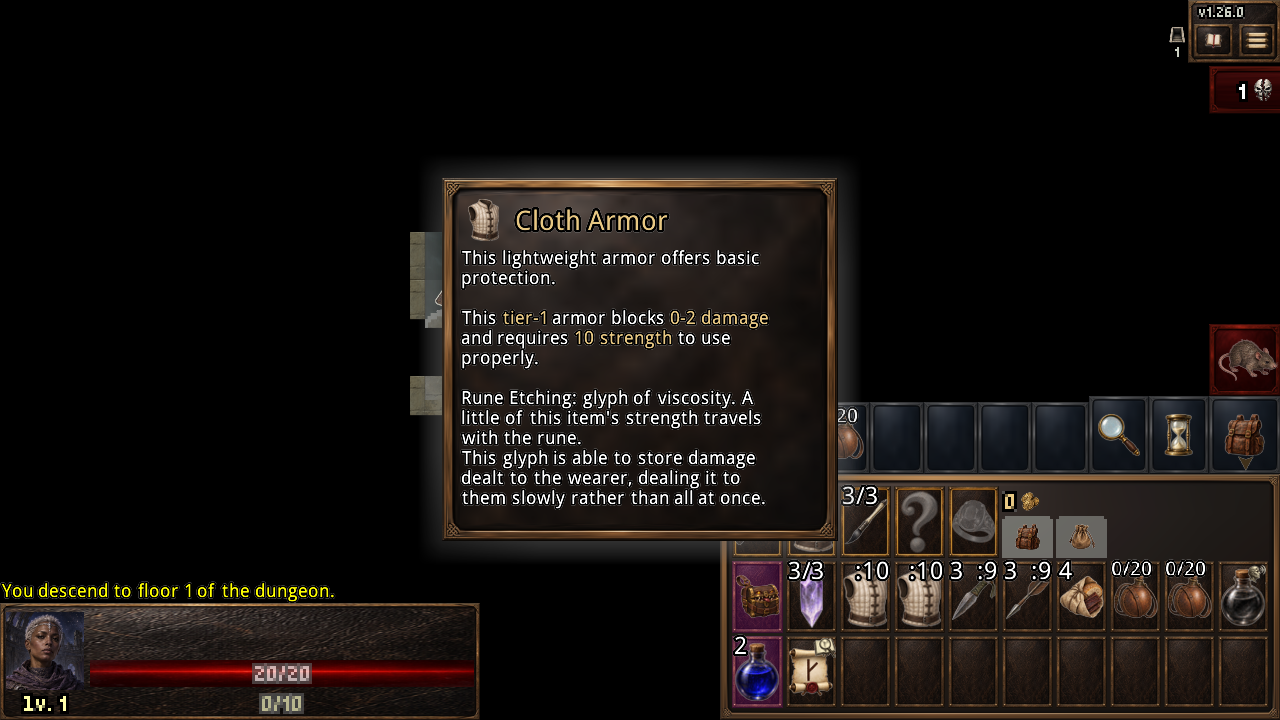
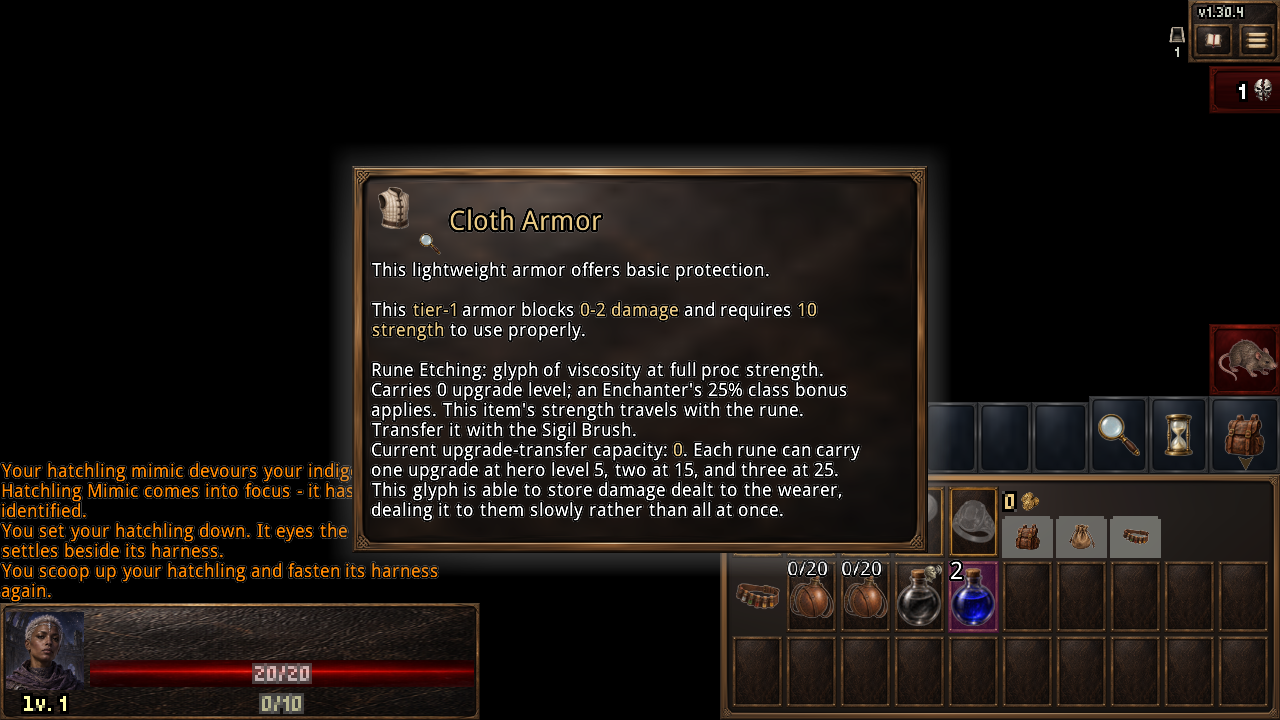
Scale Enchanter rune upgrade transfers at hero levels 5, 15 and 25

Changed region(s): [[0.0, 0.2139, 1.0, 1.0]]

diff --git a/core/src/test/java/com/shatteredpixel/shatteredpixeldungeon/acceptance/SmokeRun.java b/core/src/test/java/com/shatteredpixel/shatteredpixeldungeon/acceptance/SmokeRun.java
@@ -109,10 +109,75 @@ public class SmokeRun {
                 String info=carrier.info();
                 check(info.contains("Rune Etching: "+name)
                         && info.contains("strength travels with the rune")
+                        && info.contains("Current upgrade-transfer capacity: _"+RuneEtching.upgradeCapacity(Dungeon.hero)+"_")
                         && info.contains("25% class bonus") && !info.contains("%1$s") && !info.contains("%2$d")
                         && !info.contains("25%%"),"37: Rune Etching description resolves its live effect, upgrade and class bonus");
             }
         } finally {rune.floorEnchant=previous;rune.floorGlyph=previousGlyph;}
+    }
+
+    private static void etchingProgressionScenario(){
+        Hero originalHero=Dungeon.hero;
+        try {
+            int[] levels={1,4,5,7,14,15,16,24,25,30},capacities={0,0,1,1,1,2,2,2,3,3};
+            check(RuneEtching.upgradeCapacity(null)==0,"37: no owner cannot bank upgrades");
+            for(boolean armor:new boolean[]{false,true})for(int i=0;i<levels.length;i++){
+                Hero hero=new Hero();hero.heroClass=HeroClass.ENCHANTER;hero.lvl=levels[i];Dungeon.hero=hero;
+                Talent.initClassTalents(hero);
+                Item source=armor?new ClothArmor():new com.shatteredpixel.shatteredpixeldungeon.items.weapon.melee.Dagger();
+                Item next=armor?new ClothArmor():new com.shatteredpixel.shatteredpixeldungeon.items.weapon.melee.Dagger();
+                source.level(2);next.level(3);source.identify();next.identify();
+                RuneEtching rune=new RuneEtching(armor);
+                if(armor){((Armor)source).runeEtching=rune;hero.belongings.armor=(Armor)source;}
+                else{((Weapon)source).runeEtching=rune;hero.belongings.weapon=(Weapon)source;}
+                check(rune.level()==0&&RuneEtching.upgradeCapacity(hero)==capacities[i],"37: exact level threshold "+levels[i]);
+                for(int paid=0;paid<4;paid++)source.upgrade();
+                int cap=capacities[i];
+                check(rune.level()==cap&&source.trueLevel()==6,"37: bank only new paid upgrades up to capacity "+levels[i]);
+                checkRuneDescription(source);
+                source.collect();next.collect();
+                for(int transfer=0;transfer<3;transfer++){
+                    if(armor)hero.belongings.armor=(Armor)next;else hero.belongings.weapon=(Weapon)next;
+                    check(RuneEtching.etch(hero,next)&&source.trueLevel()==6-cap&&next.trueLevel()==3+cap
+                            &&RuneEtching.attached(next)==rune&&RuneEtching.attached(source)==null,
+                            "37: exact transfer with excess and pre-existing upgrades retained "+levels[i]);
+                    if(armor)hero.belongings.armor=(Armor)source;else hero.belongings.weapon=(Weapon)source;
+                    check(RuneEtching.etch(hero,source)&&source.trueLevel()==6&&next.trueLevel()==3,
+                            "37: repeated transfers conserve every paid upgrade "+levels[i]);
+                }
+                Bundle saved=new Bundle();saved.put("carrier",source);
+                Item restored=(Item)saved.get("carrier");
+                check(restored.trueLevel()==6&&RuneEtching.attached(restored).level()==cap,
+                        "37: capacity and carrier upgrades survive save/load "+levels[i]);
+                if(cap>0){
+                    hero.lvl=cap==1?4:cap==2?14:24;
+                    if(armor)hero.belongings.armor=(Armor)next;else hero.belongings.weapon=(Weapon)next;
+                    check(!RuneEtching.canEtch(hero,next)&&!RuneEtching.etch(hero,next)
+                            &&RuneEtching.attached(source)==rune&&source.trueLevel()==6&&next.trueLevel()==3&&rune.level()==cap,
+                            "37: legacy/Playtest level reductions preserve paid upgrades without over-cap transfer");
+                    hero.lvl=levels[i];
+                    // Carrier loss, even with a full pack, must keep every banked level.
+                    while(hero.belongings.backpack.items.size()<hero.belongings.backpack.capacity())
+                        hero.belongings.backpack.items.add(new Food());
+                    RuneEtching.recover(source);
+                    check(source.trueLevel()==6-cap&&RuneEtching.attached(source)==null&&RuneEtching.find(hero,armor)==rune
+                            &&RuneEtching.etch(hero,next)&&next.trueLevel()==3+cap,
+                            "37: full-pack recovery preserves all banked upgrades "+levels[i]);
+                }
+            }
+            // Old saves may already have a paid level at hero level one. Keep it until transfer unlocks.
+            Hero legacyHero=new Hero();legacyHero.heroClass=HeroClass.ENCHANTER;legacyHero.lvl=1;Dungeon.hero=legacyHero;
+            Talent.initClassTalents(legacyHero);
+            Weapon old=new com.shatteredpixel.shatteredpixeldungeon.items.weapon.melee.Dagger();old.level(2);
+            old.runeEtching=new RuneEtching();old.runeEtching.level(1);old.collect();
+            Weapon next=new com.shatteredpixel.shatteredpixeldungeon.items.weapon.melee.Dagger();legacyHero.belongings.weapon=next;
+            Bundle oldSave=new Bundle();oldSave.put("carrier",old);
+            old=(Weapon)oldSave.get("carrier");legacyHero.belongings.backpack.items.clear();old.collect();
+            check(!RuneEtching.etch(legacyHero,next)&&old.trueLevel()==2&&old.runeEtching.level()==1,"37: old paid rune remains intact before new unlock");
+            legacyHero.lvl=5;
+            check(RuneEtching.etch(legacyHero,next)&&old.trueLevel()==1&&next.trueLevel()==1,"37: old paid rune transfers when its threshold is reached");
+        } finally {Dungeon.hero=originalHero;}
+        System.out.println("TEST 37 PROGRESSION PASS: weapon/armor capacities 0 before hero 5, 1 at 5, 2 at 15, 3 at 25; paid-upgrade conservation, descriptions, saves and legacy/full-pack recovery");
     }
 
     private static void armorEtchingScenario(Hero h,Weapon weapon){
@@ -1671,6 +1736,8 @@ public class SmokeRun {
         bow.detachAll(h.belongings.backpack);knives.detachAll(h.belongings.backpack);brush.gainCharge(3);
         System.out.println("TEST 33 RANGED PASS: bow, thrown stack split/recovery/expiry, tagged picker and cast exclusion, real arrow proc");
         RuneEtching rune=starter.runeEtching;
+        etchingProgressionScenario();
+        int originalEtchingLevel=h.lvl;h.lvl=5;
         checkRuneDescription(starter);starter.upgrade();checkRuneDescription(starter);
         check(starter.actions(h).contains(Item.AC_DROP)&&starter.value()>0,"37: ordinary sellable starter");
         com.shatteredpixel.shatteredpixeldungeon.items.weapon.melee.WornShortsword replacement=new com.shatteredpixel.shatteredpixeldungeon.items.weapon.melee.WornShortsword();
@@ -1684,6 +1751,7 @@ public class SmokeRun {
         starter.doEquip(h);check(RuneEtching.etch(h)&&starter.level()==1&&starter.runeEtching==rune,"37: reattach after carrier loss");
         check(!rune.actions(h).contains(Item.AC_DROP),"37: rune cannot be dropped");
         armorEtchingScenario(h,starter);
+        h.lvl=originalEtchingLevel;
         System.out.println("TEST 37 PASS: transfer, upgrade, replacement, carrier loss and reattachment");
         runecraftScenario(h,brush,starter);
         clearArena();Rat enemy=target(h.pos+1);enemy.sprite.visible=false;

diff --git a/core/src/main/java/com/shatteredpixel/shatteredpixeldungeon/items/RuneEtching.java b/core/src/main/java/com/shatteredpixel/shatteredpixeldungeon/items/RuneEtching.java
@@ -7,11 +7,12 @@ import com.shatteredpixel.shatteredpixeldungeon.items.armor.Armor;
 import com.shatteredpixel.shatteredpixeldungeon.items.weapon.Weapon;
 import com.shatteredpixel.shatteredpixeldungeon.items.weapon.melee.MeleeWeapon;
 import com.shatteredpixel.shatteredpixeldungeon.items.weapon.enchantments.*;
+import com.shatteredpixel.shatteredpixeldungeon.messages.Messages;
 import com.shatteredpixel.shatteredpixeldungeon.sprites.ItemSpriteSheet;
 import com.watabou.utils.*;
 import java.util.ArrayList;
 
-/** Independent category-bound runes, each banking at most one paid carrier upgrade. */
+/** Independent category-bound runes, banking paid upgrades up to the hero's transfer capacity. */
 public class RuneEtching extends Item {
     public static boolean equipping;
     public static final Class<?>[] FLOOR_ENCHANTS={Blazing.class,Shocking.class,Chilling.class,Kinetic.class,Lucky.class,Blooming.class};
@@ -22,6 +23,18 @@ public class RuneEtching extends Item {
     public RuneEtching() {}
     public RuneEtching(boolean armor){armorMode=armor;}
     public boolean armorMode(){return armorMode;}
+    public static int upgradeCapacity(Hero hero){
+        if(hero==null || hero.lvl<5)return 0;
+        return hero.lvl<15?1:hero.lvl<25?2:3;
+    }
+    public void bankUpgrade(){
+        // Only a new paid upgrade can enter the rune; existing equipment levels are never absorbed.
+        if(level()<upgradeCapacity(Dungeon.hero))level(level()+1);
+    }
+    public String attachmentDescription(boolean armor){
+        return Messages.get(this,"attached",armor?floorGlyph.name():floorEnchant.name(),level())
+                +"\n"+Messages.get(this,"capacity",upgradeCapacity(Dungeon.hero));
+    }
     public void roll(){
         floorEnchant=(Weapon.Enchantment)Reflection.newInstance(Random.element(FLOOR_ENCHANTS));
         floorGlyph=Armor.Glyph.randomCommon();
@@ -63,8 +76,11 @@ public class RuneEtching extends Item {
         return item instanceof Weapon?((Weapon)item).runeEtching:item instanceof Armor?((Armor)item).runeEtching:null;
     }
     public static boolean canEtch(Hero hero,Item item){
-        return item!=null && (item instanceof MeleeWeapon || item instanceof Armor)
-                && item.isEquipped(hero) && attached(item)==null && find(hero,item instanceof Armor)!=null;
+        if(hero==null || item==null || !(item instanceof MeleeWeapon || item instanceof Armor)
+                || !item.isEquipped(hero) || attached(item)!=null)return false;
+        RuneEtching rune=find(hero,item instanceof Armor);
+        // Preserve already paid levels in old saves or after Playtest lowers the hero's level.
+        return rune!=null && rune.level()<=upgradeCapacity(hero);
     }
     public static boolean etch(Hero hero,Item next){
         if(!canEtch(hero,next))return false;
@@ -91,7 +107,7 @@ public class RuneEtching extends Item {
         // This mandatory attachment must survive a full pack when its carrier is lost.
         if(!rune.collect())Dungeon.hero.belongings.backpack.items.add(rune);
     }
-    @Override public String info(){return super.info()+"\n\n"+floorEnchant.name()+": "+floorEnchant.desc()+"\n\n"+floorGlyph.name()+": "+floorGlyph.desc();}
+    @Override public String info(){return super.info()+"\n\n"+Messages.get(this,"capacity",upgradeCapacity(Dungeon.hero))+"\n\n"+floorEnchant.name()+": "+floorEnchant.desc()+"\n\n"+floorGlyph.name()+": "+floorGlyph.desc();}
     @Override public void storeInBundle(Bundle b){super.storeInBundle(b);b.put("floor_enchant",floorEnchant);b.put("floor_glyph",floorGlyph);b.put("armor_mode",armorMode);}
     @Override public void restoreFromBundle(Bundle b){
         super.restoreFromBundle(b);

diff --git a/desktop/src/main/java/com/shatteredpixel/shatteredpixeldungeon/desktop/DesktopSmokeProbe.java b/desktop/src/main/java/com/shatteredpixel/shatteredpixeldungeon/desktop/DesktopSmokeProbe.java
@@ -1111,7 +1111,9 @@ final class DesktopSmokeProbe extends ShatteredPixelDungeon {
         }else if(frames==540){
             if(Dungeon.hero.belongings.armor.runeEtching==null || ((com.shatteredpixel.shatteredpixeldungeon.items.weapon.Weapon)Dungeon.hero.belongings.weapon).runeEtching==null || Dungeon.hero.belongings.armor.runeEtching==((com.shatteredpixel.shatteredpixeldungeon.items.weapon.Weapon)Dungeon.hero.belongings.weapon).runeEtching)throw new AssertionError("37: Etch picker did not attach armor rune");
             String text=Dungeon.hero.belongings.armor.info();
-            if(!text.contains("Rune Etching:")||!text.contains("travels with the rune")||text.contains("%1$s")||text.contains("%2$d"))throw new AssertionError("37: rendered armor description identity or placeholders");
+            if(!text.contains("Rune Etching:")||!text.contains("travels with the rune")
+                    ||!text.contains("Current upgrade-transfer capacity: _"+com.shatteredpixel.shatteredpixeldungeon.items.RuneEtching.upgradeCapacity(Dungeon.hero)+"_")
+                    ||!text.contains("hero level 5, two at 15, and three at 25")||text.contains("%1$s")||text.contains("%2$d"))throw new AssertionError("37: rendered armor description identity, progression or placeholders");
             GameScene.show(new com.shatteredpixel.shatteredpixeldungeon.windows.WndInfoItem(Dungeon.hero.belongings.armor));
         }else if(frames==570){
             interfaceBounds();capture("polish-armor-etch-description");

diff --git a/core/src/main/java/com/shatteredpixel/shatteredpixeldungeon/ui/changelist/GrimhollowChanges.java b/core/src/main/java/com/shatteredpixel/shatteredpixeldungeon/ui/changelist/GrimhollowChanges.java
@@ -20,7 +20,9 @@ public final class GrimhollowChanges {
         release.addButton(new ChangeButton(icon.get(),title,text));
     }
     public static void addAllChanges(ArrayList<ChangeInfo> list) {
-        ChangeInfo r=release(list,"v1.30.3","Lasting work takes patient craft.");
+        ChangeInfo r=release(list,"v1.30.4","Runes grow with their bearer.");
+        note(r,Icons.INFO,"Rune Etching","Weapon and armor runes each carry one paid upgrade at hero level 5, two at 15, and three at 25. New upgrades applied while attached fill the rune's capacity; earlier upgrades stay on the gear. Their enchantments and glyphs can move from the start of the run. Existing stored upgrades are preserved.");
+        r=release(list,"v1.30.3","Lasting work takes patient craft.");
         note(r,Icons.INFO,"Lasting Work","The Artificer has a 15%/30%/45% chance to settle one active working permanently when first descending into each new floor. Returning to the same floor grants no further check.");
         r=release(list,"v1.30.2","The Enchanter studies lasting magic.");
         note(r,Icons.CHANGES,"Costly scrollcraft","The Brush can write a known Upgrade scroll for 120 alchemical energy, parchment, one charge and three turns. Playtest balance tuning includes the crafting cost.");

diff --git a/core/src/main/java/com/shatteredpixel/shatteredpixeldungeon/items/armor/Armor.java b/core/src/main/java/com/shatteredpixel/shatteredpixeldungeon/items/armor/Armor.java
@@ -522,8 +522,8 @@ public class Armor extends EquipableItem {
 
 		if (seal != null && seal.level() == 0)
 			seal.upgrade();
-		else if (runeEtching != null && runeEtching.level() == 0)
-			runeEtching.level(1);
+		else if (runeEtching != null)
+			runeEtching.bankUpgrade();
 
 		return super.upgrade();
 	}
@@ -672,7 +672,7 @@ public class Armor extends EquipableItem {
 			info += "\n\n" + Messages.get(Armor.class, "seal_attached", seal.maxShield(tier, level()));
 		}
 		
-		if(runeEtching!=null)info+="\n\n"+Messages.get(com.shatteredpixel.shatteredpixeldungeon.items.RuneEtching.class,"attached",runeEtching.floorGlyph.name(),runeEtching.level())+"\n"+runeEtching.floorGlyph.desc();
+		if(runeEtching!=null)info+="\n\n"+runeEtching.attachmentDescription(true)+"\n"+runeEtching.floorGlyph.desc();
 		return info+sigilInfo();
 	}
 

diff --git a/core/src/main/java/com/shatteredpixel/shatteredpixeldungeon/items/weapon/melee/MeleeWeapon.java b/core/src/main/java/com/shatteredpixel/shatteredpixeldungeon/items/weapon/melee/MeleeWeapon.java
@@ -366,7 +366,7 @@ public class MeleeWeapon extends Weapon {
 			info += "\n\n" + abilityInfo();
 		}
 		
-		return info+sigilInfo()+(runeEtching==null?"":"\n\n"+Messages.get(com.shatteredpixel.shatteredpixeldungeon.items.RuneEtching.class,"attached",runeEtching.floorEnchant.name(),runeEtching.level()));
+		return info+sigilInfo()+(runeEtching==null?"":"\n\n"+runeEtching.attachmentDescription(false));
 	}
 	
 	public String statsInfo(){

diff --git a/core/src/main/java/com/shatteredpixel/shatteredpixeldungeon/items/weapon/Weapon.java b/core/src/main/java/com/shatteredpixel/shatteredpixeldungeon/items/weapon/Weapon.java
@@ -419,7 +419,7 @@ abstract public class Weapon extends KindOfWeapon {
 		
 		cursed = false;
 
-		if(runeEtching!=null&&runeEtching.level()==0)runeEtching.level(1);
+		if(runeEtching!=null)runeEtching.bankUpgrade();
         return super.upgrade();
 	}
 	

diff --git a/CHANGES.md b/CHANGES.md
@@ -1,3 +1,11 @@
+# Enchanter Etching progression v1.30.4 - 2026-10-12
+
+- Each weapon/armor Rune Etching banks one new paid upgrade at hero level 5, two at 15 and three at 25; no upgrade banking before level 5. Existing gear upgrades and excess new upgrades remain on the carrier. Rune enchantments/glyphs, one-turn transfers and zero charge cost are unchanged.
+- Engineering choice: preserve stored paid upgrades in older saves or after Playtest lowers hero level. A rune above the current capacity cannot transfer until the required level, rather than destroying or duplicating its upgrades. No save-format change. Category runes, crown conversion and full-pack recovery remain independent.
+- Show the progression and current capacity on attached gear and loose runes, and in the player update log. Extend existing test 37 with both categories at levels 1/4/5/7/14/15/16/24/25/30, repeated transfers, permanent gear levels, save/load, old level-one saves and full-pack loss recovery; retain earlier assertions at their new level-five unlock. Native description checks assert live capacity and resolved text.
+- Prior delivery complete: v1.30.3-enchanter-polish at 5f0f1957a5e9b4590f3075ef4f4476a3606cfc33 passed all tag jobs in CI 38188786362 and is published. Lasting Work and crafting/Toolkit changes remain included.
+- Local validation: combined Runs=30 failures=0, 16 unit tests, progression test 37, native mouse/touch Etch selection and fitted live descriptions in both orientations, compiled guarded-network audit and signed Android verification pass. Windows packaged launcher is built; physical tablet remains human playtesting.
+
 # Enchanter follow-up and release completion v1.30.3 - 2026-10-11
 
 - Tune Lasting Work to 15%/30%/45% at ranks 1/2/3, preserving one conversion attempt on first descent into a new floor. Keep weapon-before-armor priority, Reinforce conversion, saved floor receipts and failed-roll behavior. Update talent descriptions and rank text; seeded gameplay checks cover all four threshold bands, all working types, single conversion and revisit/save-load exclusion.

diff --git a/README.md b/README.md
@@ -1,10 +1,10 @@
-# Enchanter follow-up and release completion - v1.30.3
+# Enchanter Etching progression - v1.30.4
 
 Lasting Work now has a **15% / 30% / 45%** chance to settle one active inscription or Reinforce permanently on the first descent into each new floor. Revisiting or reloading that floor grants no additional attempt. Keen Study remains 5%/10% per successful Inscribe cast, and Upgrade-scroll Scribe remains 120 energy by default with its existing Playtest balance control.
 
-Rune Etching can transfer one upgrade from the start of the run, without a talent requirement: upgrade its carrier while the rune is attached, then transfer it using the Brush's Etch action. Weapon and armor runes are independent; each carries at most one upgrade within its own category. Existing upgrades on gear before attachment are not absorbed.
+Rune Etching's upgrade-transfer capacity is **one at hero level 5, two at 15, and three at 25**. Weapon and armor runes are independent. New upgrades applied while attached fill that rune's capacity; upgrades applied earlier or beyond capacity stay with the gear. Its enchantment/glyph can move before level 5. Transfer costs one turn and no Brush charge. Old saves retain paid rune upgrades; if their amount exceeds the hero's new limit, transfer waits until the required level instead of losing upgrades.
 
-Windows: `desktop/build/windows/1.30.3/Grimhollow/Grimhollow.exe` (keep the entire folder). Signed Android: `android/build/outputs/apk/update/android-update.apk` (`1.30.3`, version code 1021). Toolkit artwork and the 1.30.2 crafting additions are included unchanged.
+Windows: `desktop/build/windows/1.30.4/Grimhollow/Grimhollow.exe` (keep the entire folder). Signed Android: `android/build/outputs/apk/update/android-update.apk` (`1.30.4`, version code 1022). Lasting Work, Toolkit artwork and the crafting additions are included unchanged. The prior v1.30.3-enchanter-polish release passed every tag CI job and is published.
 
 # Enchanter lasting craft - v1.30.2
 

diff --git a/KNOWN_ISSUES.md b/KNOWN_ISSUES.md
@@ -1,5 +1,9 @@
 # Known issues
 
+- v1.30.4: Physical Samsung tablet and full-campaign Enchanter balance remain human playtesting. A legacy rune above the hero's current transfer limit keeps its upgrades and waits for the corresponding level; none are deleted. Test 45 remains Abandoned: test failed and was not rerun.
+- v1.30.4 verification: isolated native reviews emitted nonfatal clipboard-access warnings but completed their mouse/touch and text assertions in both layouts. Initial sandboxed jpackage writes were denied; the documented authorized route produced the final Windows package. No game process or user save was interrupted.
+- v1.30.4 review cleanup: automatic approval rejected a broad screenshot restore. All 106 modified tracked images were then matched to this run's render output and copied with matching hashes to ignored .local/etching-review-image-backup before cleanup; the two Etching description proofs are retained in the commit.
+
 - v1.30.3: Physical Samsung tablet and full-campaign Enchanter balance remain human playtesting. Toolkit sources and existing art are unchanged. Test 45 remains Abandoned: test failed and was not rerun.
 
 - v1.30.2 delivery: tag v1.30.2-enchanter-craft at cdd7891f76bc16fa50b52c31d84a2b0923da6f3f remains immutable and unpublished. Its tag CI 38176646969 checked startup at 300 frames (about 2.5 seconds), before the unchanged three-second readiness delay, and failed on the absent marker. The identical commit and follow-up documentation branch runs passed every gate. v1.30.3 corrects that fixture timing with the same scene/token assertions and an elapsed-time deadline; no production safeguard is weakened.
